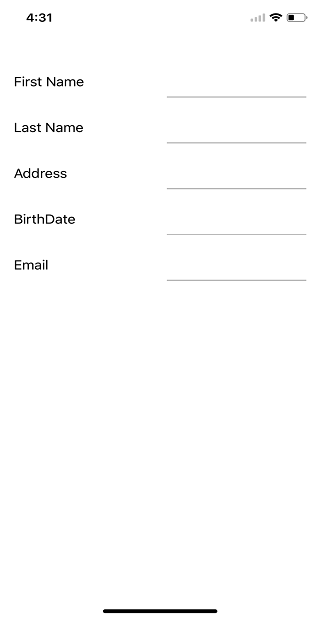
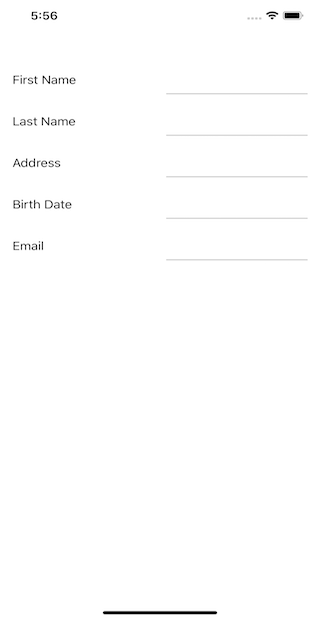
XAMARIN-21506 Modified the image and content for date editor.

diff --git a/Xamarin-iOS/SfDataForm/Editors.md b/Xamarin-iOS/SfDataForm/Editors.md
@@ -258,14 +258,15 @@ private void DataForm_AutoGeneratingDataFormItem(object sender, AutoGeneratingDa
 
 In Date editor, [SfDatePicker](https://help.syncfusion.com/cr/cref_files/xamarin-ios/Syncfusion.SfDataForm.iOS~Syncfusion.iOS.DataForm.Editors.SfDatePicker.html) will be loaded.
 
-### Setting null value in date picker
+### Setting null value in date editor
 
-In data form date picker, by default DateTime data type default value will be displayed (1/01/0001). You can also set the null value by adding nullable DateTime data type for the date picker property in data form, which allows you to set the null value and display the empty value in date editor. 
+In data form date editor, by default DateTime data type default value will be displayed (1/01/0001). You can also set the null value by adding nullable DateTime data type for the date picker property in data form, which allows you to set the null value and display the empty value in date editor. 
 
 {% tabs %}
 {% highlight c# %}
 
 [DataType(DataType.Date)]
+[Display(Name ="Birth Date")]
 public DateTime? BirthDate { get; set; }
 
 {% endhighlight %}
@@ -273,7 +274,7 @@ public DateTime? BirthDate { get; set; }
 
 ![Setting nullable date to data form date item in Xamarin.iOS DataForm](SfDataForm_images/DateTime_Nullable.png)
 
-### Customizing format in Date editor
+### Customizing format in date editor
 
 In `SfDatePicker`, Short date will be shown by default. You can the customize format to be applied by using [Format](https://help.syncfusion.com/cr/cref_files/xamarin-ios/Syncfusion.SfDataForm.iOS~Syncfusion.iOS.DataForm.DataFormDateItem~Format.html) property in [DataFormDateItem](https://help.syncfusion.com/cr/cref_files/xamarin-ios/Syncfusion.SfDataForm.iOS~Syncfusion.iOS.DataForm.DataFormDateItem.html).
 

diff --git a/Xamarin-iOS/SfDataForm/Editing.md b/Xamarin-iOS/SfDataForm/Editing.md
@@ -441,7 +441,7 @@ public double? Amount
 
 ### Using date editor for DateTimeOffset DataForm property data type
 
-In SfDataForm, you cannot use Date editor for `DateTimeOffset` property data type. To overcome this, you need to use `Converter` attribute to convert DateTimeOffset to DateTime value and vice-versa.
+In SfDataForm, you cannot use date editor for `DateTimeOffset` property data type. To overcome this, you need to use `Converter` attribute to convert DateTimeOffset to DateTime value and vice-versa.
 
 {% tabs %}
 {% highlight c# %}
